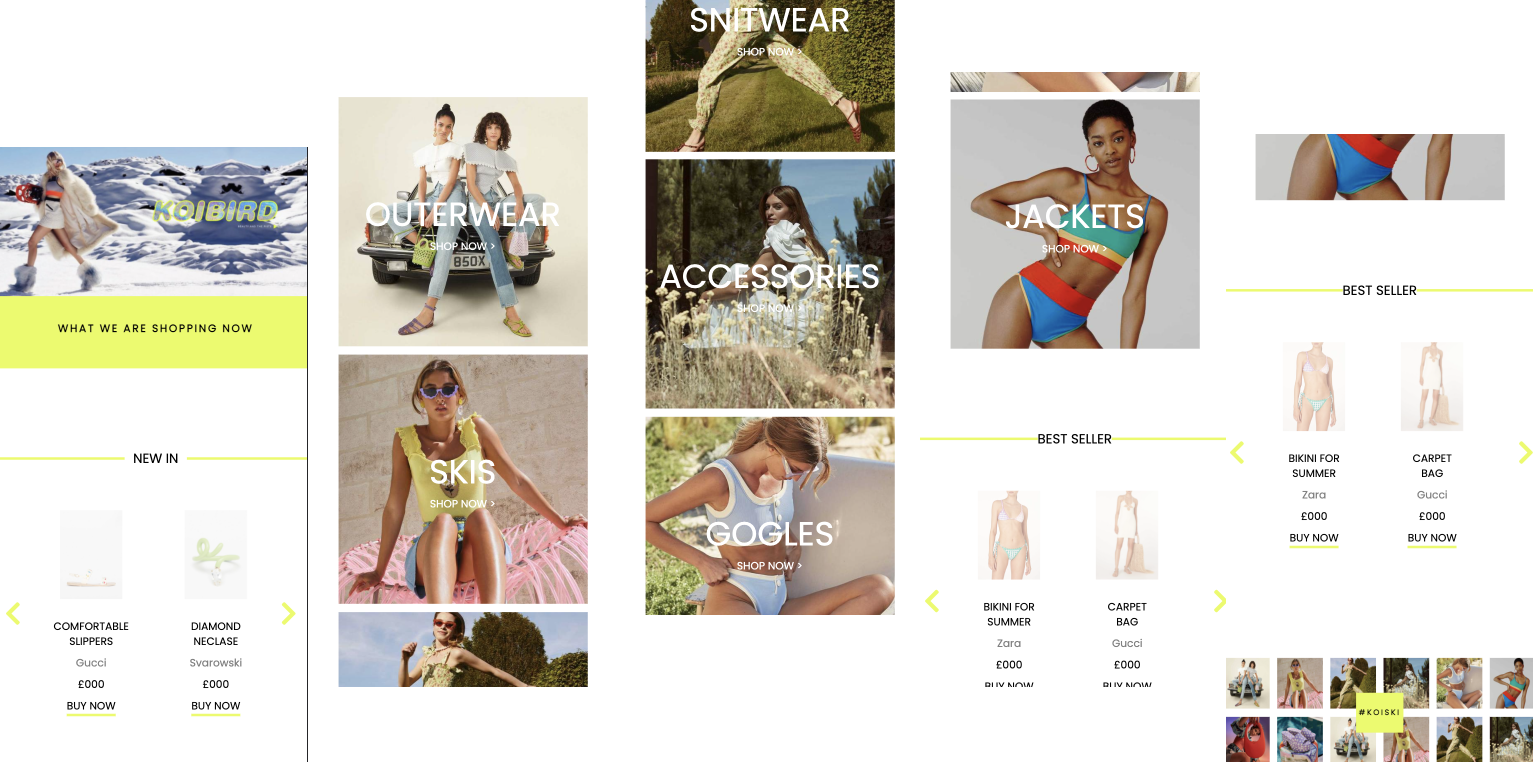
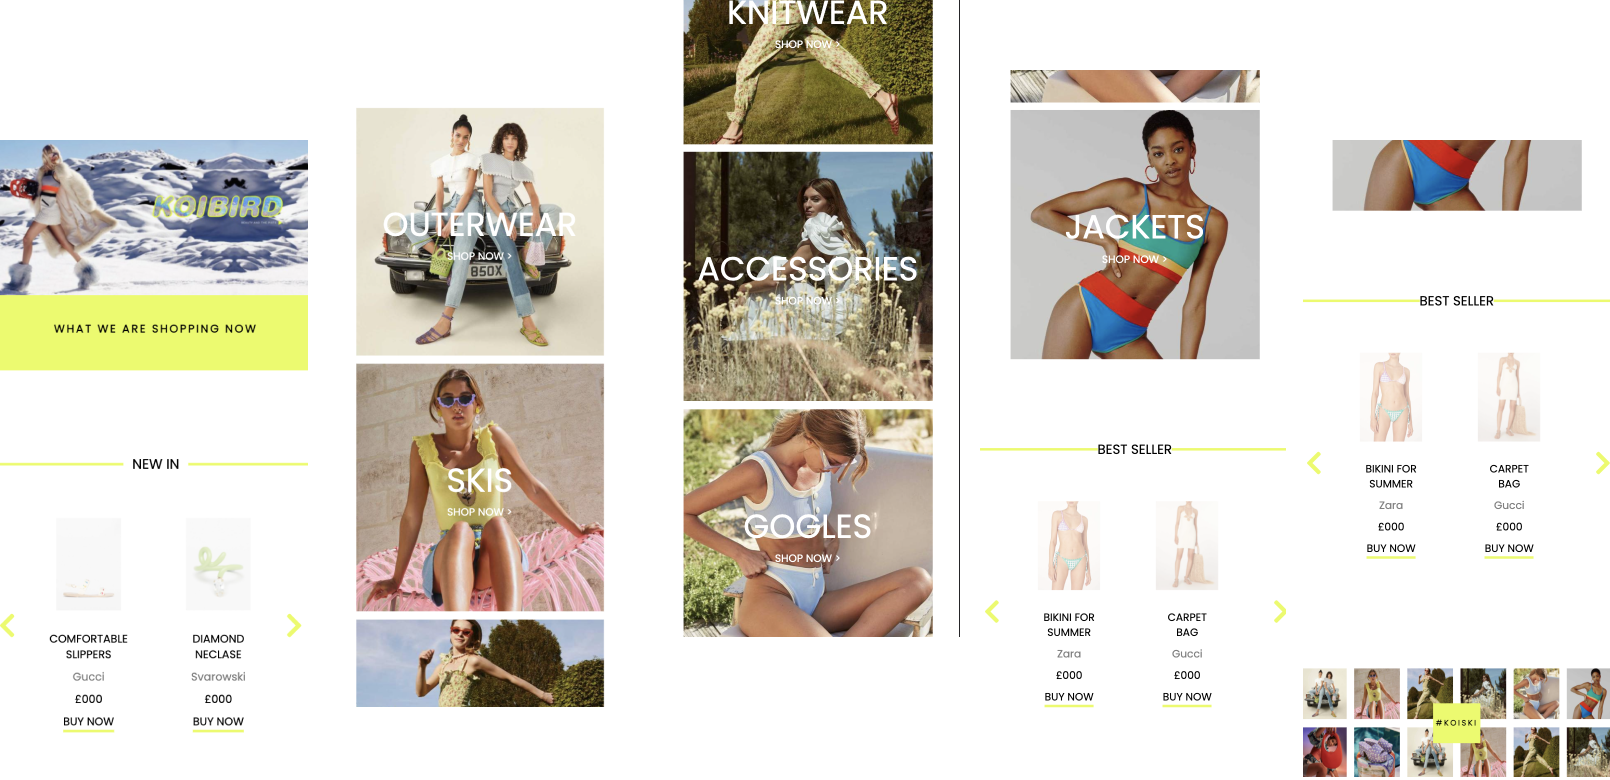
Initial commit

diff --git a/src/styles/style.css b/src/styles/style.css
@@ -427,7 +427,6 @@ a {
       -ms-flex-direction: row;
           flex-direction: row;
   margin-top: 6rem;
-  width: 100vw;
 }
 
 .main__new__text {

diff --git a/src/styles/style.scss b/src/styles/style.scss
@@ -150,7 +150,6 @@ a {
   @include flexCenter();
   flex-direction: row;
   margin-top: 6rem;
-  width: 100vw
 }
 
 .main__new__text {
